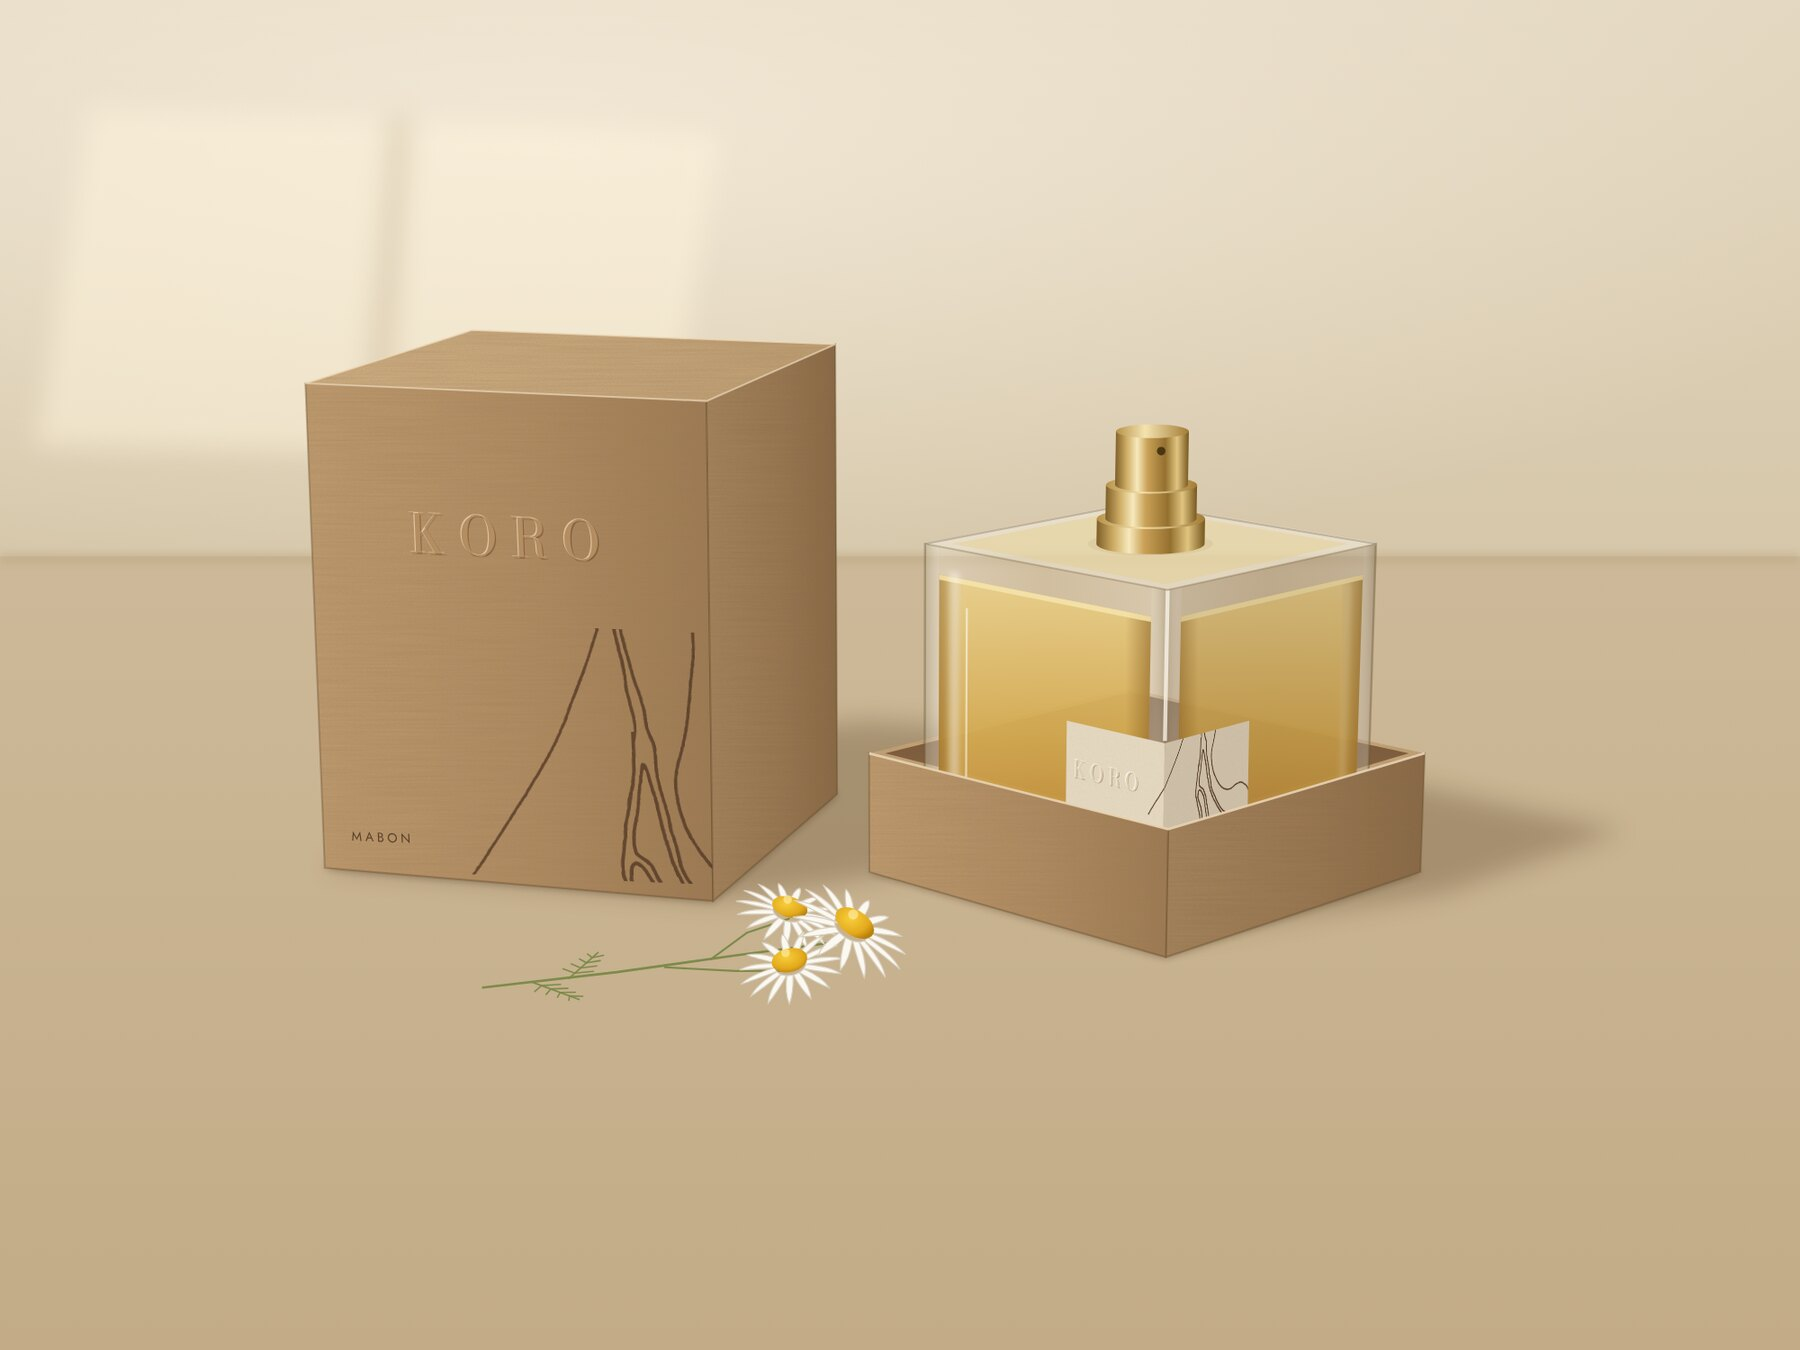
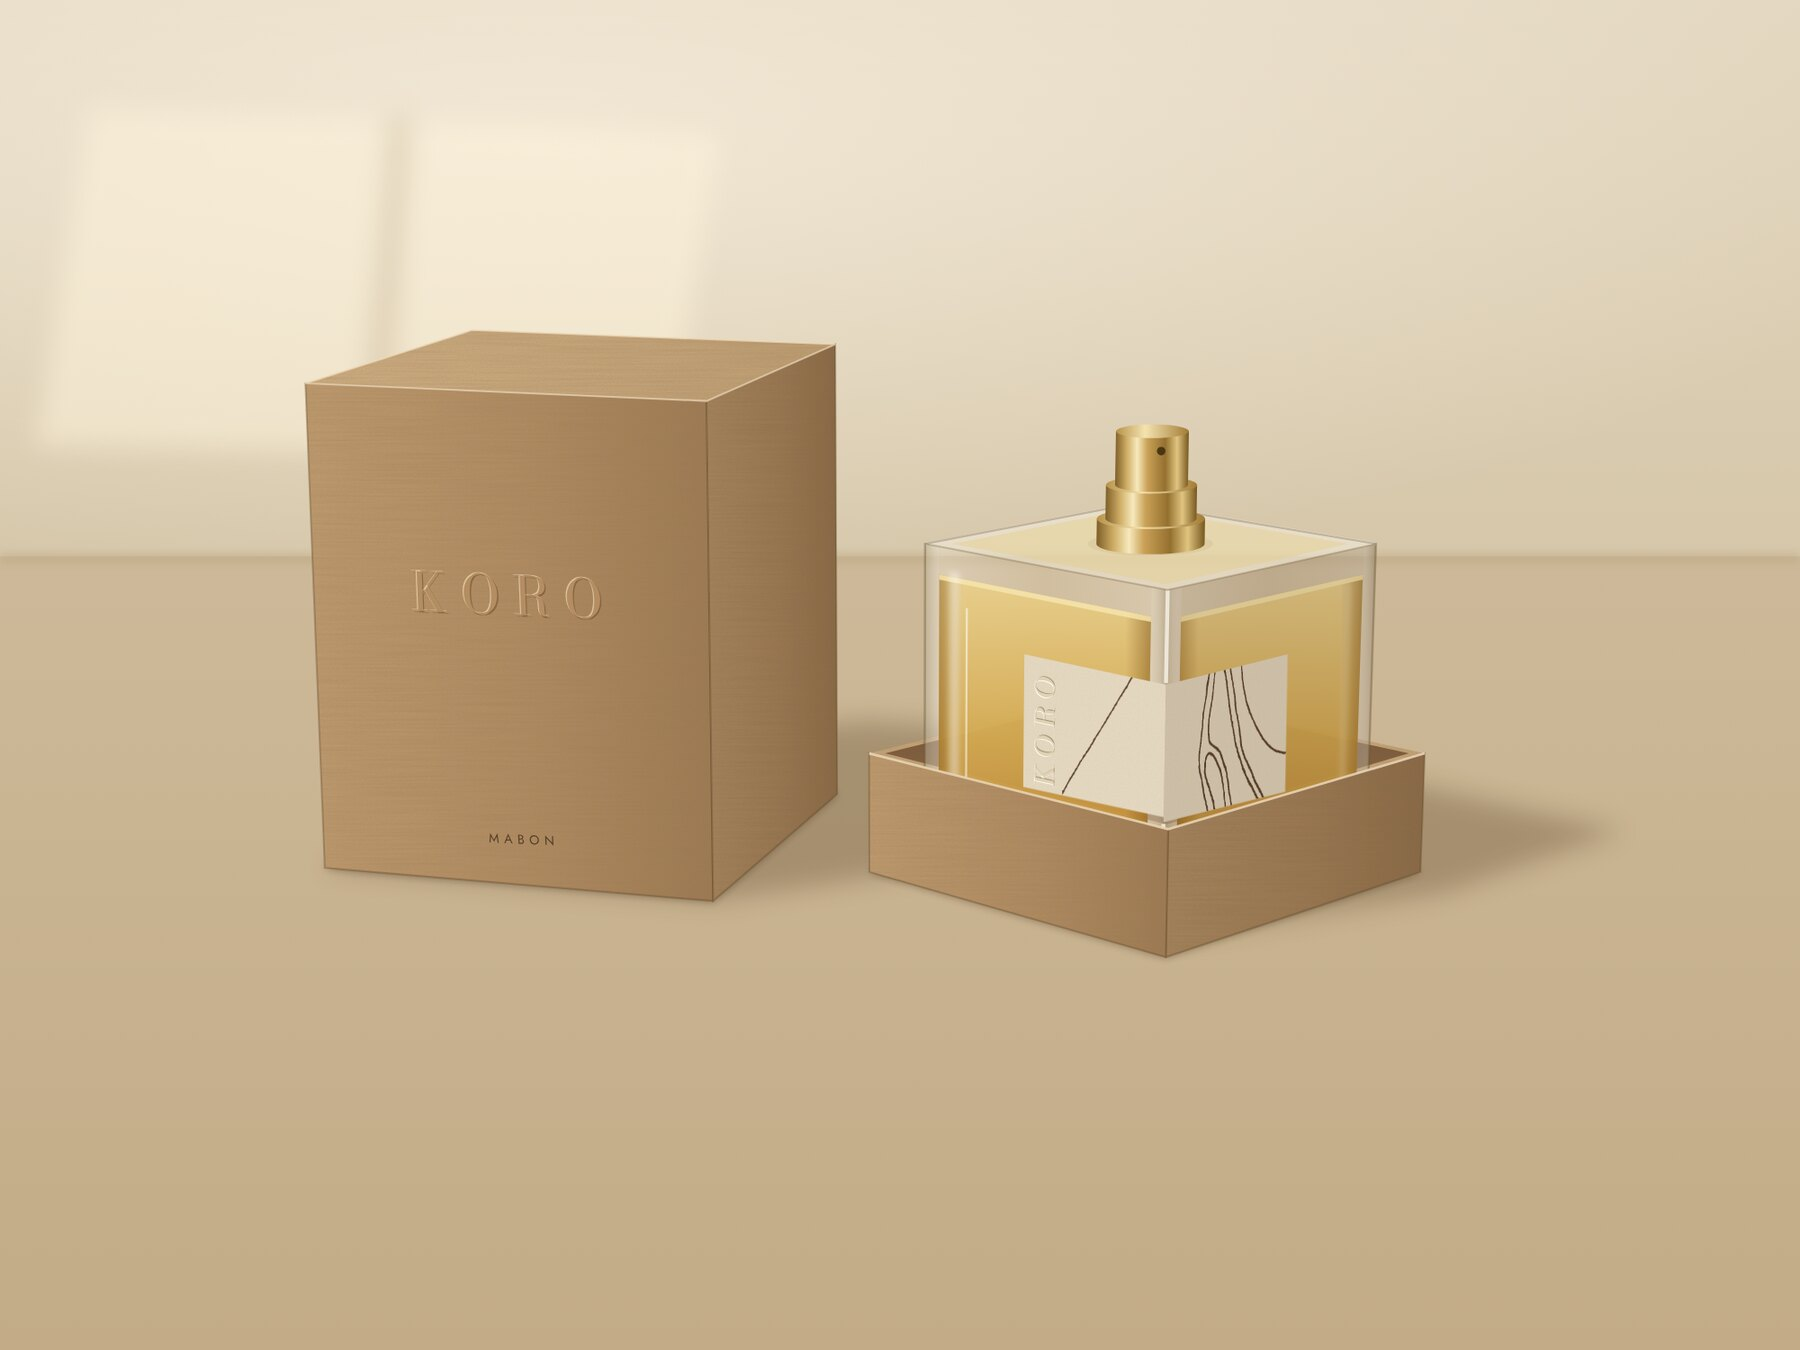
Larger corner sticker with vertical KORO; plain box; no flowers
Sticker halves grow to 32 x 23.6 mm, KORO is embossed vertically, and the
drawing detail spans the whole strip so every line runs to the edges.
The box drops the artwork (embossed KORO and scent name only) and the
camomile prop is removed.

Claude-Session: https://claude.ai/code/session_01LqzMwEUPk3cGfVNeK7XBCw

diff --git a/design/packaging/scene3d.js b/design/packaging/scene3d.js
@@ -77,13 +77,15 @@ function contact(P, pts) {
 
 // ---------- sticker (content units: each half 160 x 118) ----------
 const INK = "#4a3020";
-function emb(txt, x, y, size, ls) {
-  return `
-    <text x="${x + .9}" y="${y + 1.1}" text-anchor="middle" class="didot" font-size="${size}" letter-spacing="${ls}" fill="#7d6644" fill-opacity=".55">${txt}</text>
-    <text x="${x - .8}" y="${y - .8}" text-anchor="middle" class="didot" font-size="${size}" letter-spacing="${ls}" fill="#fffaf0">${txt}</text>
-    <text x="${x}" y="${y}" text-anchor="middle" class="didot" font-size="${size}" letter-spacing="${ls}" fill="#e0d2b5">${txt}</text>`;
+function emb(txt, x, y, size, ls) {   // blind emboss, set vertically (reads bottom to top)
+  return `<g transform="translate(${x} ${y}) rotate(-90)">
+    <text x=".9" y="1.1" text-anchor="middle" class="didot" font-size="${size}" letter-spacing="${ls}" fill="#7d6644" fill-opacity=".55">${txt}</text>
+    <text x="-.8" y="-.8" text-anchor="middle" class="didot" font-size="${size}" letter-spacing="${ls}" fill="#fffaf0">${txt}</text>
+    <text x="0" y="0" text-anchor="middle" class="didot" font-size="${size}" letter-spacing="${ls}" fill="#e0d2b5">${txt}</text></g>`;
 }
-const SW = 160, SH = 118, ART = { w: 214, h: 201, x: SW - 26, y: -46 };
+// strip = two halves of 160 x 118 either side of the bottle's corner; the drawing detail
+// covers the whole strip so every line runs to the sticker's edges
+const SW = 160, SH = 118, ART = { w: 400, h: 376, x: 44, y: -150 };
 let uid = 0;
 function stickerHalf(side) {
   const id = `c${uid++}`, artX = side === "left" ? ART.x : ART.x - SW;
@@ -91,11 +93,12 @@ function stickerHalf(side) {
     <clipPath id="${id}"><rect width="${SW}" height="${SH}"/></clipPath>
     <rect width="${SW}" height="${SH}" fill="#e9ddc6" filter="url(#paper)"/>
     <g clip-path="url(#${id})"><image href="detail-art.png" x="${artX}" y="${ART.y}" width="${ART.w}" height="${ART.h}" opacity=".9"/></g>
-    ${side === "left" ? emb("KORO", 68, SH / 2 + 11, 30, 7) : ""}`;
+    ${side === "left" ? emb("KORO", 34, SH / 2 + 2, 28, 6) : ""}`;
 }
 
 // ---------- the bottle ----------
 const B = { side: 56, h: 60, base: 11, wall: 3.5, fill: 5 };
+const STK = { w: 32, h: 23.6, top: 44 };   // each sticker half, mm
 function bottle(P, c, rot = 45) {
   const k = boxCorners(c, B.side, B.side, rot);
   // after a 45° turn: k[0] is the front corner, k[3] left, k[1] right
@@ -105,8 +108,8 @@ function bottle(P, c, rot = 45) {
   const glass = (F, side) => {
     const shade = side === "right";
     const stk = side === "left"
-      ? { u0: W - 22, u1: W, tl: F.at(W - 22, 34), tr: F.at(W, 34), bl: F.at(W - 22, 17.8) }
-      : { u0: 0, u1: 22, tl: F.at(0, 34), tr: F.at(22, 34), bl: F.at(0, 17.8) };
+      ? { tl: F.at(W - STK.w, STK.top), tr: F.at(W, STK.top), bl: F.at(W - STK.w, STK.top - STK.h) }
+      : { tl: F.at(0, STK.top), tr: F.at(STK.w, STK.top), bl: F.at(0, STK.top - STK.h) };
     return `
       <path d="${quad(P, F, 0, W, 0, H)}" fill="url(#glassFront)"/>
       <path d="${quad(P, F, B.wall, W - B.wall, B.base, H - B.fill)}" fill="url(#liquid)" opacity=".93"/>
@@ -138,7 +141,7 @@ function bottle(P, c, rot = 45) {
     <path d="${poly(P, [T(left), T(front), T(right), T(back)])}" fill="#f4eee0" opacity=".55"/>
     <path d="${poly(P, [lerp(topC, T(left), .88), lerp(topC, T(front), .88), lerp(topC, T(right), .88), lerp(topC, T(back), .88)])}" fill="#e7cf8c" opacity=".45"/>
     <path d="M${P(T(left)).map(f2).join(" ")} L${P(T(back)).map(f2).join(" ")} L${P(T(right)).map(f2).join(" ")}" fill="none" stroke="#fffaf0" stroke-width="1.4" opacity=".8"/>
-    <path d="M${P(front).map(f2).join(" ")} L${P(up(front, 17.6)).map(f2).join(" ")} M${P(up(front, 34.4)).map(f2).join(" ")} L${P(T(front)).map(f2).join(" ")}" stroke="#fffaf0" stroke-width="2.2" opacity=".75"/>
+    <path d="M${P(front).map(f2).join(" ")} L${P(up(front, STK.top - STK.h - .3)).map(f2).join(" ")} M${P(up(front, STK.top + .3)).map(f2).join(" ")} L${P(T(front)).map(f2).join(" ")}" stroke="#fffaf0" stroke-width="2.2" opacity=".75"/>
     <path d="M${P(left).map(f2).join(" ")} L${P(front).map(f2).join(" ")} L${P(right).map(f2).join(" ")} L${P(T(right)).map(f2).join(" ")} L${P(T(back)).map(f2).join(" ")} L${P(T(left)).map(f2).join(" ")} Z" fill="none" stroke="#6b5530" stroke-opacity=".4" stroke-width="1.2"/>
     <path d="M${P(T(left)).map(f2).join(" ")} L${P(T(front)).map(f2).join(" ")} L${P(T(right)).map(f2).join(" ")}" fill="none" stroke="#6b5530" stroke-opacity=".3"/>
     <ellipse cx="${f2(tc[0])}" cy="${f2(tc[1])}" rx="${f2(11 * s)}" ry="${f2(11 * s * e)}" fill="#d9c79c" opacity=".6"/>
@@ -154,14 +157,12 @@ const bottlePts = (c, rot = 45) => { const k = bottleFoot(c, rot); return [...k,
 // ---------- kraft box (lift-off lid) ----------
 // box face artwork, content units 10 per mm, y down
 function boxArt(wmm, hmm, scent) {
-  const w = wmm * 10, h = hmm * 10, id = `b${uid++}`, aw = w * 1.05, ah = aw * 1008 / 1072, ks = w * .13;
+  const w = wmm * 10, h = hmm * 10, ks = w * .13, y = h * .46;
   return `
-    <clipPath id="${id}"><rect width="${w}" height="${h}"/></clipPath>
-    <g clip-path="url(#${id})"><image href="detail-art.png" x="${w * .32}" y="${h * .48}" width="${aw}" height="${ah}" opacity=".72" style="mix-blend-mode:multiply"/></g>
-    <text x="${w / 2 + 2}" y="${h * .34 + 2.4}" text-anchor="middle" class="didot" font-size="${ks}" letter-spacing="${w * .035}" fill="#6b4c2c" opacity=".55">KORO</text>
-    <text x="${w / 2 - 2}" y="${h * .34 - 2}" text-anchor="middle" class="didot" font-size="${ks}" letter-spacing="${w * .035}" fill="#f2dcb6" opacity=".7">KORO</text>
-    <text x="${w / 2}" y="${h * .34}" text-anchor="middle" class="didot" font-size="${ks}" letter-spacing="${w * .035}" fill="#b48d62">KORO</text>
-    <text x="${w * .07}" y="${h - w * .07}" class="sans" font-size="${w * .032}" letter-spacing="${w * .008}" fill="#3b2716" opacity=".75">${scent}</text>`;
+    <text x="${w / 2 + 2}" y="${y + 2.4}" text-anchor="middle" class="didot" font-size="${ks}" letter-spacing="${w * .035}" fill="#6b4c2c" opacity=".55">KORO</text>
+    <text x="${w / 2 - 2}" y="${y - 2}" text-anchor="middle" class="didot" font-size="${ks}" letter-spacing="${w * .035}" fill="#f2dcb6" opacity=".7">KORO</text>
+    <text x="${w / 2}" y="${y}" text-anchor="middle" class="didot" font-size="${ks}" letter-spacing="${w * .035}" fill="#b48d62">KORO</text>
+    <text x="${w / 2}" y="${h - w * .08}" text-anchor="middle" class="sans" font-size="${w * .032}" letter-spacing="${w * .012}" fill="#3b2716" opacity=".75">${scent}</text>`;
 }
 // draws a closed prism (outer box). y0..y1 heights; art on the face whose normal points most at camera
 function prism(P, c, w, d, y0, y1, rot, opts = {}) {

diff --git a/index.html b/index.html
@@ -195,7 +195,7 @@
     <!-- Featured seasonal scent -->
     <section class="feature" id="mabon">
       <figure class="feature-media reveal">
-        <img src="assets/img/koro-bottle.jpg" alt="The square KORO bottle turned to its corner, with a beige sticker folded over the corner: embossed KORO on one side, a detail of Nadya Danylenko’s line drawing on the other" width="1400" height="1400" loading="lazy">
+        <img src="assets/img/koro-bottle.jpg" alt="The square KORO bottle turned to its corner, with a beige sticker folded over the corner: KORO embossed vertically and a detail of Nadya Danylenko’s line drawing running to the edges" width="1400" height="1400" loading="lazy">
       </figure>
       <div class="feature-copy reveal">
         <p class="eyebrow">The scent of the season</p>
@@ -226,11 +226,11 @@
       <div class="section-head reveal">
         <p class="eyebrow">The bottle &amp; the box</p>
         <h2 class="display display--md">Our square bottle, newly dressed</h2>
-        <p>We kept the heavy square bottle our perfumes have always lived in, with its thick walls and deep glass base. The label is new: a plain beige sticker folded over the bottle’s front corner. KORO is embossed on one side; on the other, a close detail of a drawing by Nadya Danylenko runs off the edge.</p>
+        <p>We kept the heavy square bottle our perfumes have always lived in, with its thick walls and deep glass base. The label is new: a plain beige sticker folded over the bottle’s front corner. KORO is embossed vertically on one side, and a close detail of a drawing by Nadya Danylenko runs across both sides to the edges.</p>
       </div>
 
       <figure class="pack-wide reveal">
-        <img src="assets/img/koro-box-closed.jpg" alt="A rigid kraft box with blind-embossed KORO and a detail of Nadya Danylenko’s drawing, beside the square MABON bottle" width="1800" height="1350" loading="lazy">
+        <img src="assets/img/koro-box-closed.jpg" alt="A plain rigid kraft box with blind-embossed KORO, beside the square MABON bottle" width="1800" height="1350" loading="lazy">
       </figure>
 
       <div class="pack-row">
@@ -242,7 +242,7 @@
           <p>Natural perfume changes in sunlight. Every bottle arrives in a rigid kraft box with a lift-off lid, made to live on your dressing table, so the perfume can go back into the dark between wears.</p>
           <ul class="pack-list">
             <li><span class="cap">Board</span>Opaque rigid kraft that keeps daylight off the perfume</li>
-            <li><span class="cap">Print</span>KORO blind-embossed, with a detail of Nadya’s line in brown ink</li>
+            <li><span class="cap">Finish</span>KORO blind-embossed, scent name in small print</li>
             <li><span class="cap">Fit</span>A fitted base holds the square bottle upright</li>
             <li><span class="cap">Lid</span>Lifts off and settles back with a soft close</li>
             <li><span class="cap">Material</span>Paper and board only, nothing plastic</li>

diff --git a/design/packaging/render3d.html b/design/packaging/render3d.html
@@ -86,8 +86,7 @@ function scene1() {
     ${K.room(P, W, H, -260)}
     ${K.castShadow(P, K.bottlePts(bc))}
     ${K.contact(P, K.bottleFoot(bc))}
-    ${K.bottle(P, bc)}
-    ${K.camomile(P, fl, 18)}`);
+    ${K.bottle(P, bc)}`);
 }
 function scene2() {
   const W = 1000, H = 750;
@@ -100,8 +99,7 @@ function scene2() {
     ${K.contact(P, K.boxCorners(box, K.BOX.w, K.BOX.d, -16))}
     ${K.contact(P, K.bottleFoot(bc))}
     ${K.closedBox(P, box, -16)}
-    ${K.bottle(P, bc)}
-    ${K.camomile(P, fl, 10)}`);
+    ${K.bottle(P, bc)}`);
 }
 function scene3() {
   const W = 1000, H = 750;
@@ -115,8 +113,7 @@ function scene3() {
     ${K.contact(P, K.boxCorners(lid, K.BOX.w, K.BOX.d, -16))}
     ${K.contact(P, K.boxCorners(tc, K.TRAY.w, K.TRAY.d, 45))}
     ${K.prism(P, lid, K.BOX.w, K.BOX.d, 0, 88, -16, { art: (w, h) => boxArtLid(w, h) })}
-    ${K.tray(P, tc, 45, K.bottle(P, tc))}
-    ${K.camomile(P, fl, 14)}`);
+    ${K.tray(P, tc, 45, K.bottle(P, tc))}`);
 }
 document.getElementById("out").innerHTML = scene1() + scene2() + scene3();
 </script></body></html>

diff --git a/design/packaging/README.md b/design/packaging/README.md
@@ -6,11 +6,10 @@ Vector source for the Autumn 26 bottle and box images in `assets/img/koro-*.jpg`
 
 - bottle 56 × 56 × 60 mm glass (11 mm base), sprayer ~20 mm
 - box 74 × 74 × 92 mm, lid over a 4 mm base band; open base 70 × 70 × 22 mm
-- camomile heads ~20 mm across, for scale
 
 - **Bottle**: KORO's existing square bottle (shape unchanged), shown corner-on without the overcap: gold crimp collar and sprayer.
-- **Label**: minimal beige sticker folded over the front corner (corner placement inspired by Nasomatto). Left face: blind-embossed KORO only. Right face: a close detail of Nadya Danylenko's line drawing (`detail-art.png`), bleeding off the edges and just over the fold.
-- **Box**: rigid kraft, two-piece with a lift-off lid; blind-embossed KORO, the same drawing detail in brown ink running off the lid edge, scent name in small type. Keeps the bottle out of daylight.
+- **Label**: minimal beige sticker folded over the front corner (corner placement inspired by Nasomatto), each half 32 × 23.6 mm. Left: KORO blind-embossed vertically. A close detail of Nadya Danylenko's line drawing (`detail-art.png`) spans both halves, every line running to the sticker's edges.
+- **Box**: plain rigid kraft, two-piece with a lift-off lid; blind-embossed KORO and the scent name in small print. Keeps the bottle out of daylight.
 
 To change the artwork, sizes or scent name, edit `scene3d.js` (`stickerHalf`, `boxArt`, `B`, `BOX`, `TRAY`) or the scene layouts in `render3d.html`, then render:
 
